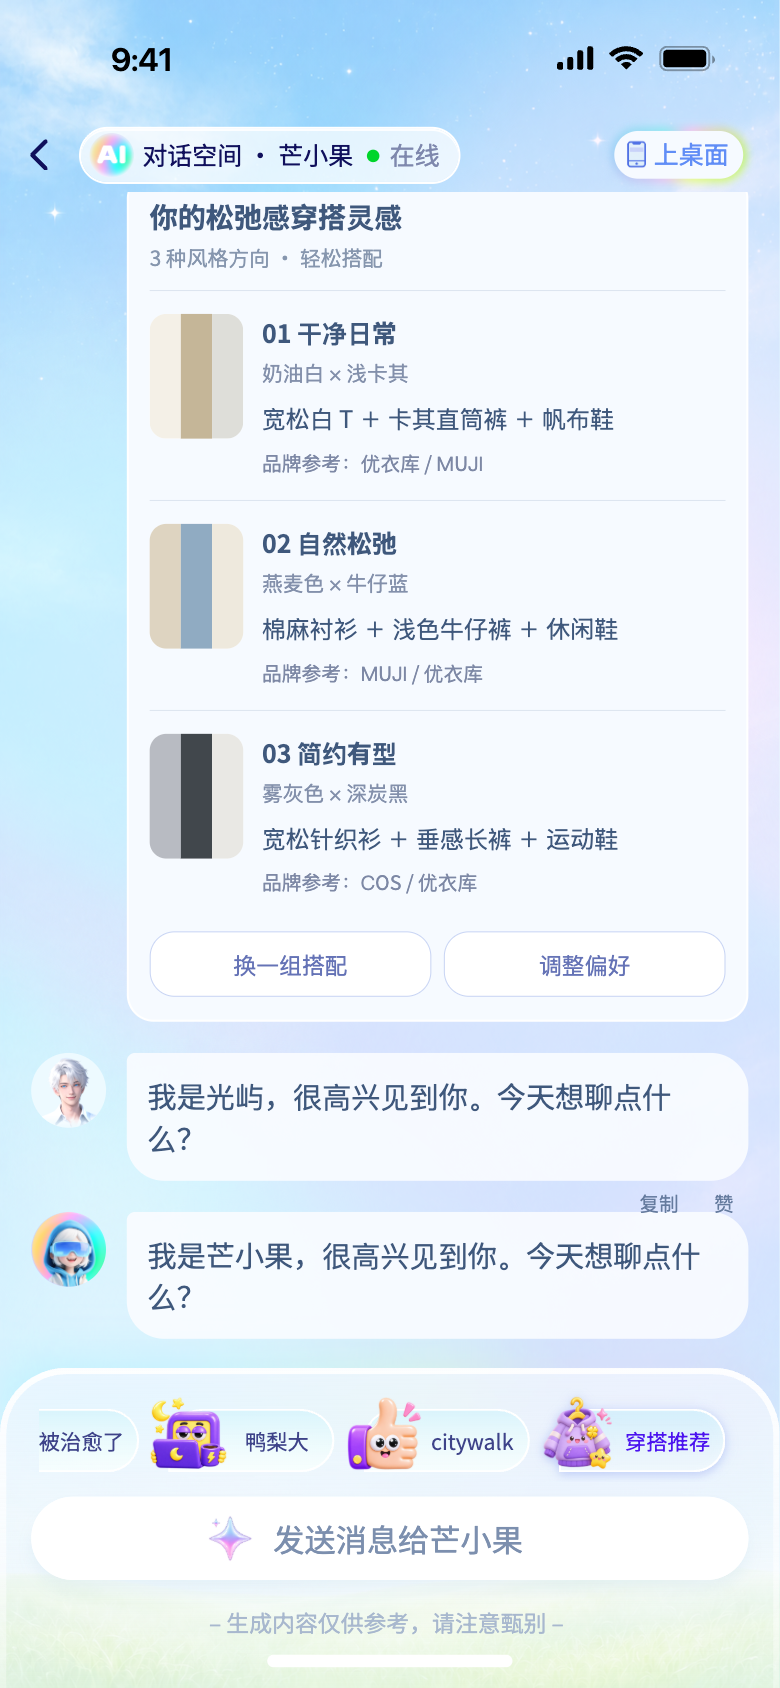
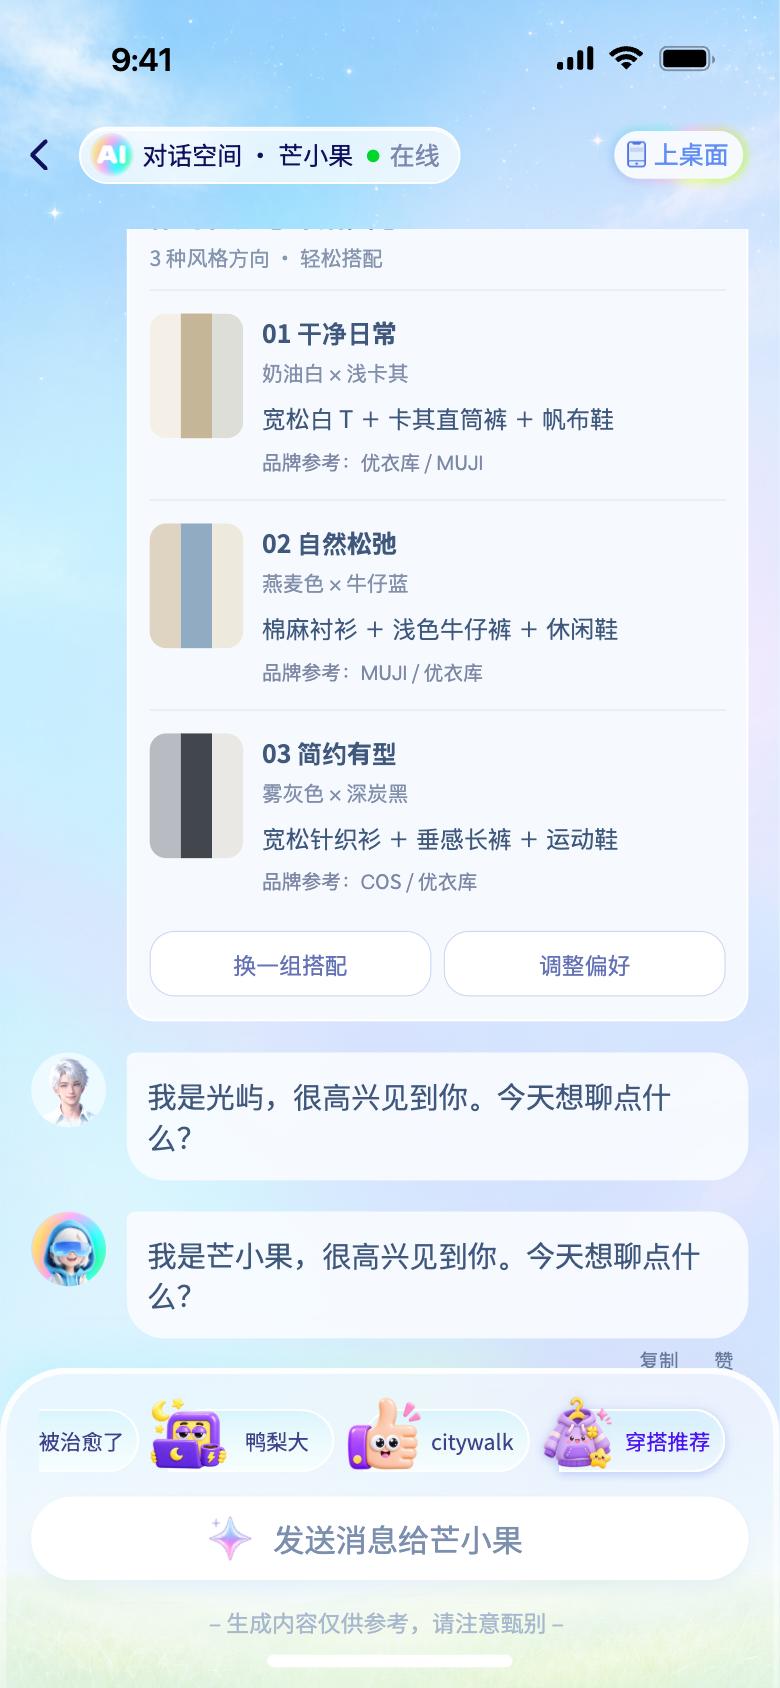
Fix topic dragging and preserve navigation spacing while scrolling history cue

diff --git a/app.js b/app.js
@@ -12,7 +12,7 @@ welcome.className = "welcome";
 welcome.append(hero);
 scroll.append(welcome);
 // The history cue belongs to the scrollable welcome content, not the fixed nav.
-welcome.append(node("23:91"), node("23:92"));
+
 for (const id of ["113:1272", "128:1869", "113:1274"]) {
   const badge = node(id);
   const top = parseFloat(getComputedStyle(badge).top);
@@ -75,7 +75,7 @@ function resize() {
   screen.style.transform = "scale(" + scale + ")";
   screen.style.height = h + "px";
   base.style.height = h + "px";
-  scroll.style.height = Math.max(120, h - 485) + "px";
+  scroll.style.height = Math.max(120, h - 521) + "px";
   footer.style.transform = "translateY(" + (h - 1624) + "px)";
   document.body.classList.toggle("phone-keyboard", keyboard);
 }
@@ -495,7 +495,7 @@ const character = node("66:317");
 // Share the welcome stacking context with badges; the character paints last.
 welcome.append(character);
 character.style.left = "358px";
-character.style.top = "52px";
+character.style.top = "16px";
 character.setAttribute("aria-label", "芒小果欢迎动画");
 let entranceTimer = null;
 const characterMedia = character.querySelector("img");
@@ -932,3 +932,14 @@ track.addEventListener(
   true,
 );
 track.addEventListener("dragstart", (e) => e.preventDefault());
+
+// Keep the original 44px navigation gap while the history cue follows scroll.
+const historyCue = document.createElement("div");
+historyCue.className = "history-cue";
+historyCue.append(node("23:91"), node("23:92"));
+screen.append(historyCue);
+function syncHistoryCue() {
+  historyCue.style.setProperty("--history-scroll", -scroll.scrollTop + "px");
+}
+scroll.addEventListener("scroll", syncHistoryCue, { passive: true });
+syncHistoryCue();

diff --git a/style.css b/style.css
@@ -2267,3 +2267,32 @@ body.phone-keyboard {
   user-select: none;
   pointer-events: none;
 }
+/* Restore the original breathing room below the fixed navigation. */
+.conversation {
+  top: 221px;
+}
+.welcome {
+  height: 553px;
+}
+.welcome > [data-node-id="96:914"] {
+  top: -221px;
+}
+#screen > .history-cue {
+  position: absolute;
+  left: 0;
+  top: 185px;
+  width: 750px;
+  height: 55px;
+  overflow: clip;
+  z-index: 3;
+  pointer-events: none;
+}
+.history-cue > [data-node-id="23:91"] {
+  top: 19px;
+  transform: translateY(var(--history-scroll, 0px));
+  pointer-events: auto;
+}
+.history-cue > [data-node-id="23:92"] {
+  top: 34px;
+  transform: translateY(var(--history-scroll, 0px));
+}

diff --git a/docs/deployment.md b/docs/deployment.md
@@ -1,6 +1,10 @@
 # 部署与分享
 
-## GitHub Pages（推荐）
+## 当前部署
+
+已启用 GitHub Pages，发布源为 `main` 分支根目录，地址为 https://raddie-jean.github.io/MangoTV-AI-Assistant-/ 。后续提交到 main 自动更新。
+
+## 重新配置 GitHub Pages
 
 仓库为纯静态站点，不需要构建、API 密钥或后端。
 
@@ -9,7 +13,7 @@
 3. Branch 选择 **main**，目录选择 **/(root)**，保存。
 4. 等待 Pages 部署完成，以设置页面显示的最新地址为准。
 
-预计地址：`https://raddie-jean.github.io/MangoTV-AI-Assistant-/`。
+演示地址：`https://raddie-jean.github.io/MangoTV-AI-Assistant-/`。
 
 - 主 Demo：站点根地址。
 - 八状态入口与说明：`interaction-guide.html`。

diff --git a/docs/interaction-spec.md b/docs/interaction-spec.md
@@ -79,4 +79,6 @@
 - 系统减少动态效果开启时，文案立即完整显示，三个标签停止微动。原GIF仍沿用用户要求的持续循环。
 
 
-最新交付修复：历史提示与分割线移入欢迎区随内容上滑；底部话题栏支持鼠标拖动并区分点击/拖动，避免误发送。拖动超过5px后才接管指针，保持普通点击可用。
+最新交付修复：历史提示与分割线与欢迎区同步上滑；底部话题栏支持鼠标拖动并区分点击/拖动，避免误发送。拖动超过5px后才接管指针，保持普通点击可用。
+
+导航与内容间保留原始44个设计像素的间距；历史提示在原位置显示，并随滚动退出，避免卡片贴近固定导航。

diff --git a/README.md b/README.md
@@ -9,7 +9,7 @@
 - [浏览全部源码](https://github.com/Raddie-Jean/MangoTV-AI-Assistant-)
 - [交互规格](docs/interaction-spec.md)
 
-> 在线地址需要仓库开启 GitHub Pages 后才可访问。首次发布配置见 [部署说明](docs/deployment.md)，部署成功后无需登录即可分享。
+> 已发布到 GitHub Pages，可直接分享在线链接。源码和部署设置见 [部署说明](docs/deployment.md)，验收情况见 [检查记录](docs/verification.md)。
 
 ![手机预览](docs/images/mobile-preview.png)
 
